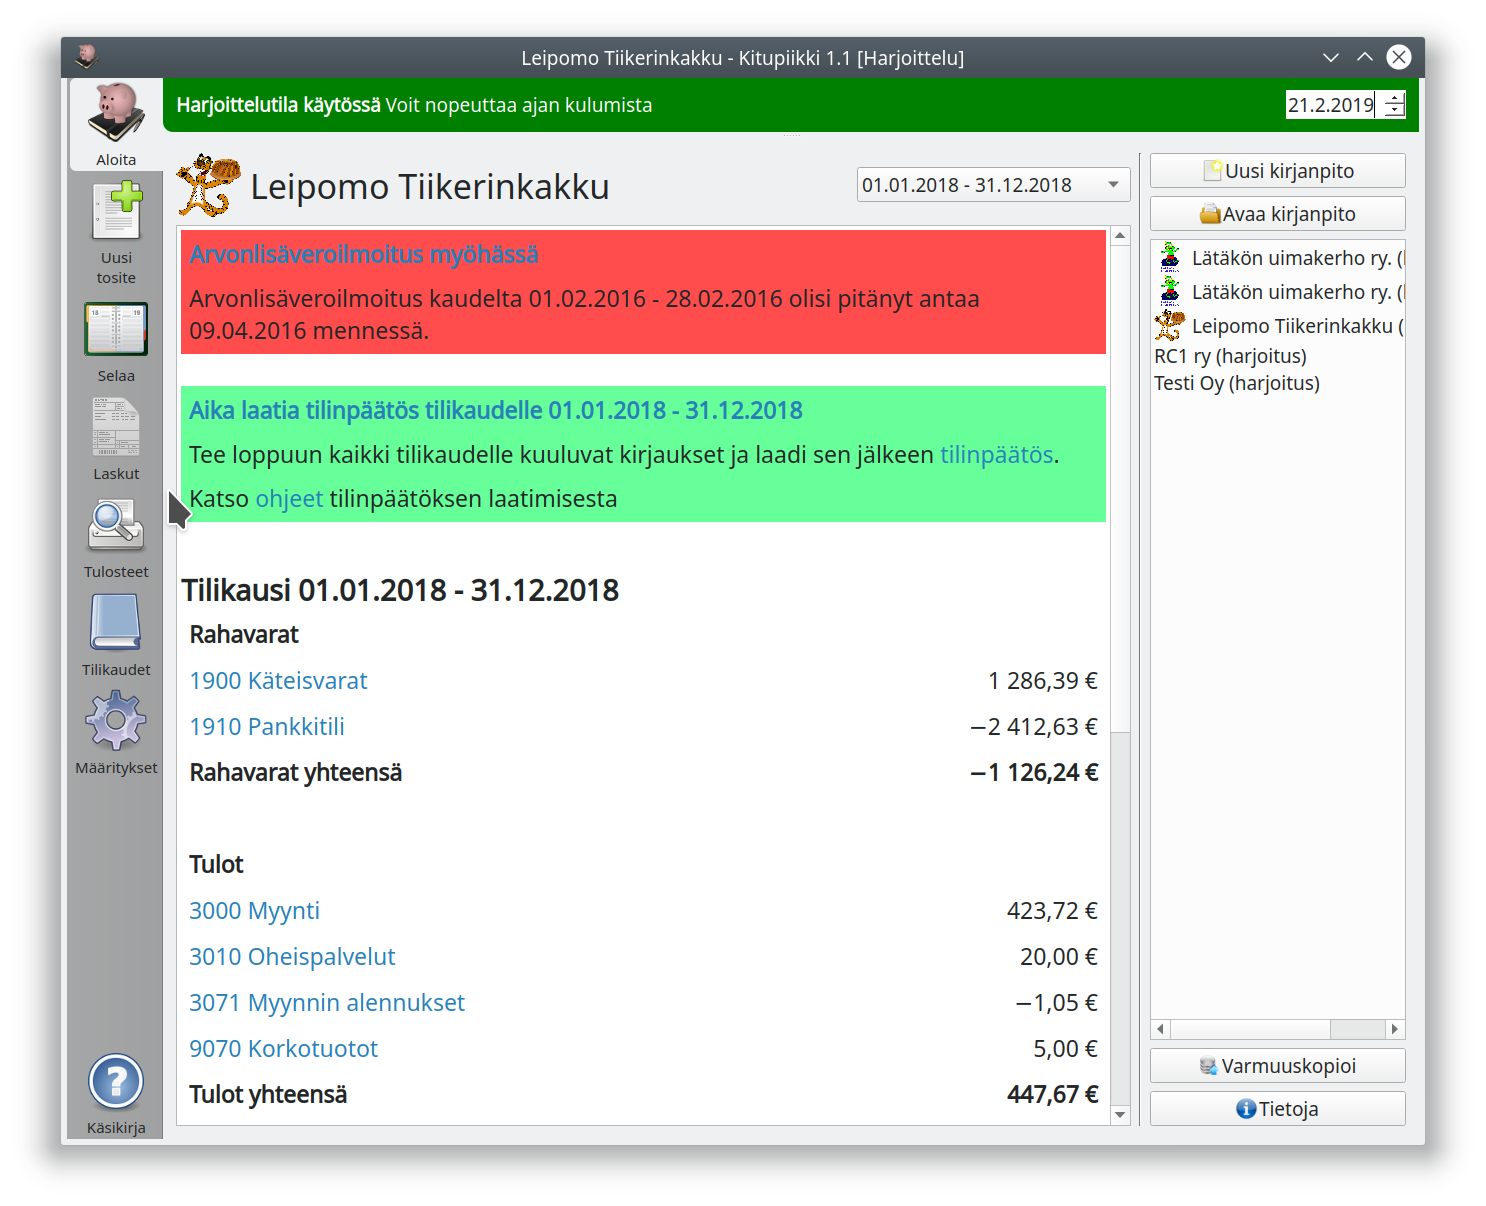
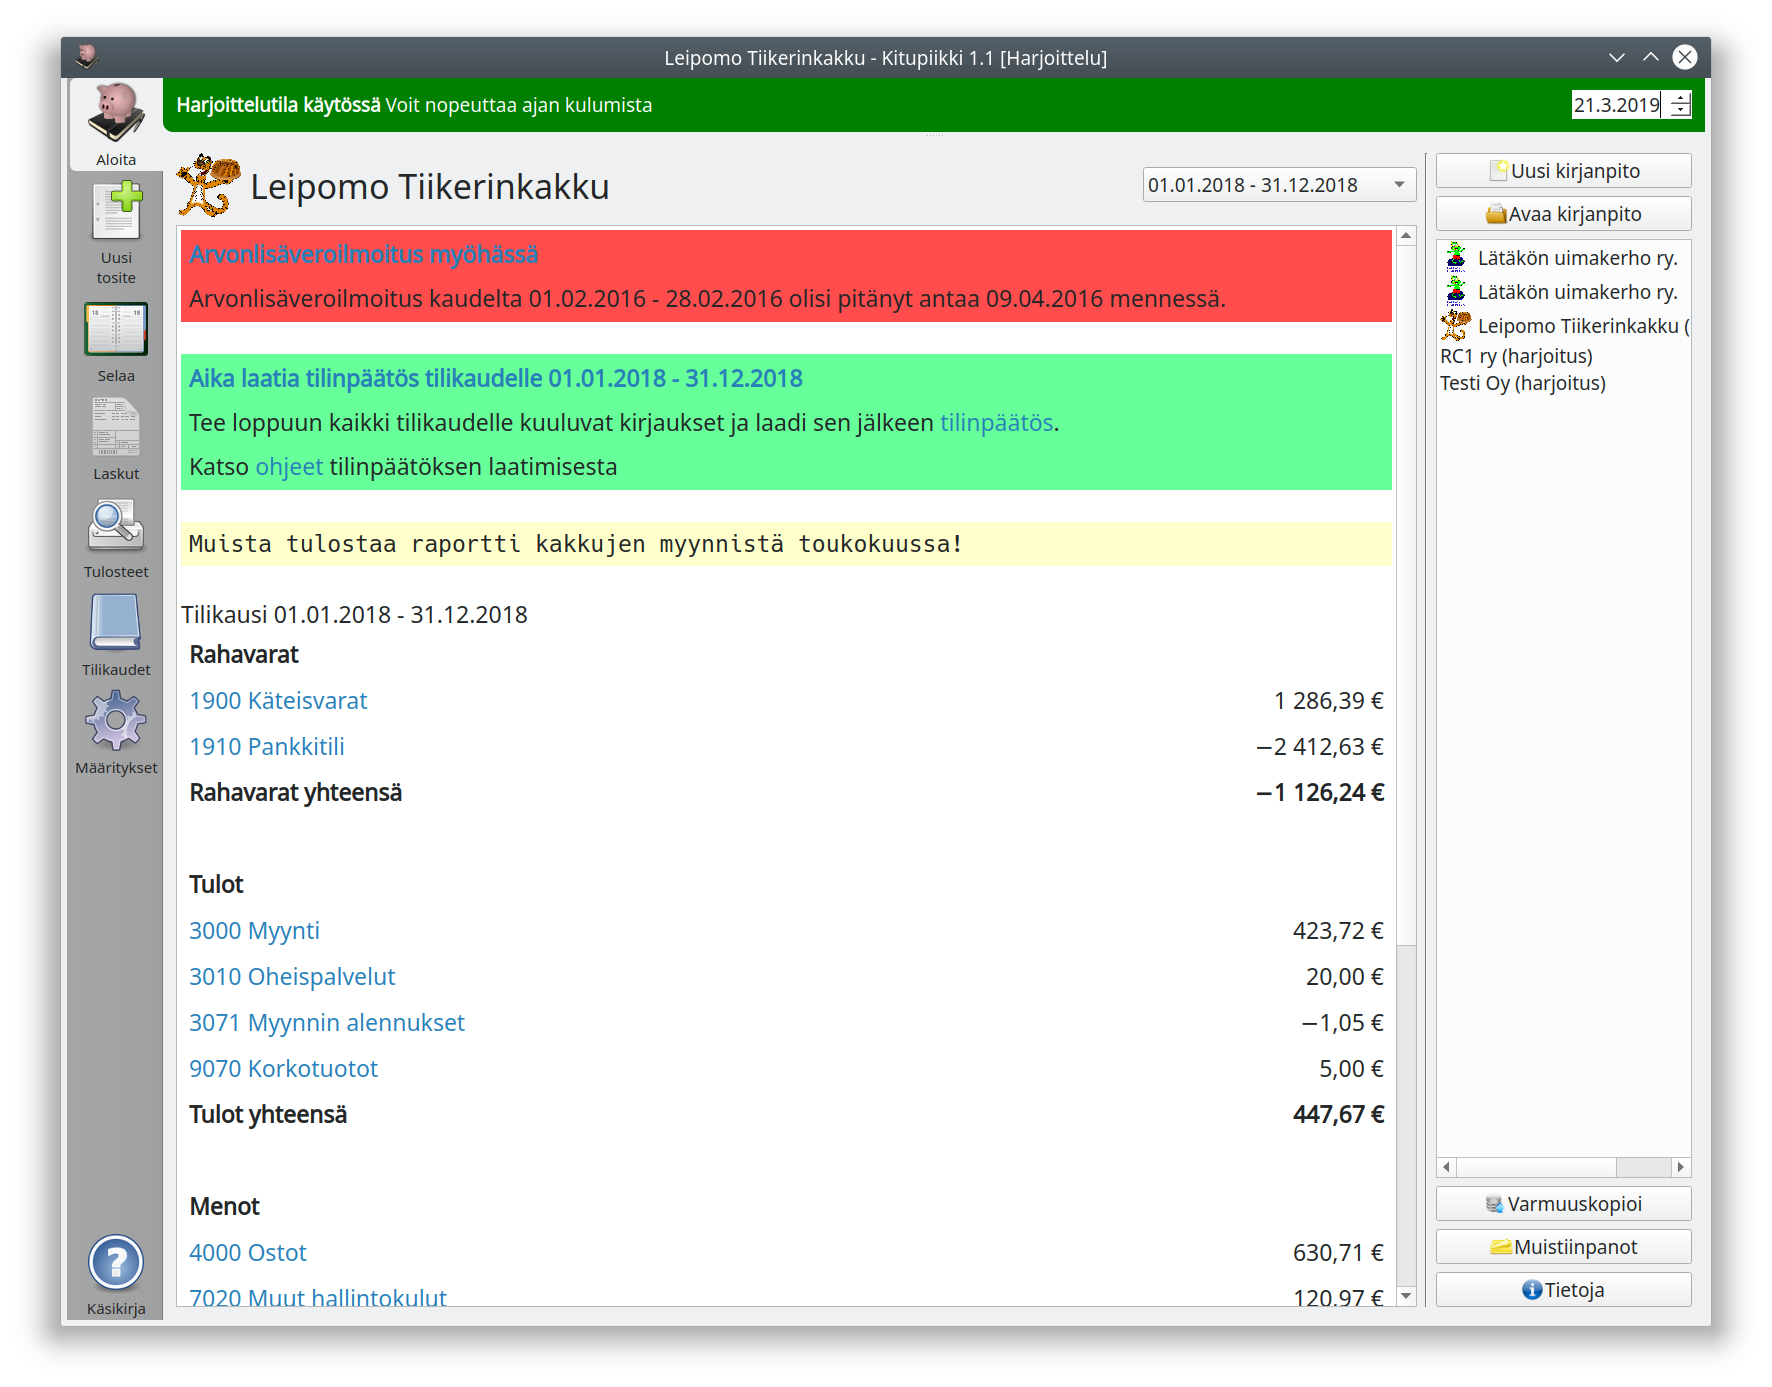
Documentaatio päivitetty

Changed region(s): [[0.031, 0.0, 0.9906, 0.9818]]

diff --git a/kitupiikki/aloitussivu/aloitussivu.cpp b/kitupiikki/aloitussivu/aloitussivu.cpp
@@ -435,11 +435,9 @@ QString AloitusSivu::vinkit()
     // Viimeisenä muistiinpanot
     if( kp()->asetukset()->onko("Muistiinpanot") )
     {
-        vinkki.append(" <table class=memo width=100%><tr><td>");
-        QString muistiinpano = kp()->asetukset()->asetus("Muistiinpanot");
-        muistiinpano.replace("\n","<br>");
-        vinkki.append(muistiinpano);
-        vinkki.append("</td></tr></table");
+        vinkki.append(" <table class=memo width=100%><tr><td><pre>");
+        vinkki.append( kp()->asetukset()->asetus("Muistiinpanot"));
+        vinkki.append("</pre></td></tr></table");
     }
 
     return vinkki;

diff --git a/kitupiikki/laskutus/laskudialogi.cpp b/kitupiikki/laskutus/laskudialogi.cpp
@@ -707,7 +707,6 @@ void LaskuDialogi::poistaValitutAsiakkaat()
 
 void LaskuDialogi::verkkolaskuKayttoon()
 {
-    ui->verkkolaskuNappi->setVisible( !ui->verkkoOsoiteEdit->text().isEmpty() && !ui->verkkoValittajaEdit->text().isEmpty() );
     ui->verkkolaskuNappi->setEnabled( !ui->verkkoOsoiteEdit->text().isEmpty() && !ui->verkkoValittajaEdit->text().isEmpty() );
 }
 

diff --git a/kitupiikki/versio.h b/kitupiikki/versio.h
@@ -24,7 +24,7 @@
   Kitupiikin versio määritellään tässä tiedostossa. Tiedosto voidaan myös generoida käännösaikaisesti.
 */
 
-#define KITUPIIKKI_VERSIO "1.1"
+#define KITUPIIKKI_VERSIO "1.1-beta.3"
 #define KITUPIIKKI_BUILD ""
 
 #endif // VERSIO_H

diff --git a/docs/laskutus/ryhma/index.md b/docs/laskutus/ryhma/index.md
@@ -1,1 +1,33 @@
 #Ryhmälasku  <span class=ver>1.1<span class=selite>Kitupiikin versiosta 1.1 lähtien</span></span>
+
+![](ryhma.png)
+
+Ryhmälasku-toiminnolla voit lähettää saman sisältöisen laskulle kerralla useammalle asiakkaalle.
+
+Täytä **Rivit**-välilehdelle laskutettavien tuotteiden tiedot ja **Lisätiedot**-välilehdelle laskulle tulostuvat lisätiedot.
+
+Valitse laskun saajat **Laskutettavat**-välilehdeltä. Voit lisätä yksittäisiä laskutettavia **Lisää**-napista, jo asiakasrekisterissä olevia vasemmasta olevassa asiakasluettelossa nimeä napsauttamalla tai tuoda csv-tiedostosta kerralla useamman asiakkaan **Tuo luettelo**-painikkeesta.
+
+Lähettääksesi tai tulostaaksesi laskun, **valitse** ensin laskun saajat ja paina sitten **Tulosta**, **Näytä**, **Sähköposti** tai **Verkkolasku** -painiketta.
+
+![](lahetetyt.png)
+
+Nimen vasemmalla puolella oleva *e*-kuvake tarkoittaa, että lasku voidaan lähettää verkkolaskuna; kuvake muuttuu vihreäksi väkäseksi kun verkkolasku on muodostettu. Vastaavasti vihreä väkänen sähköpostiosoitteen vasemmalla puolella tarkoittaa, että lasku on lähetetty sähköpostilla.
+
+## Luettelon tuominen
+
+![](luettelo.png)
+
+**Tuo luettelo**-painikkeellä pääset tuomaan vastaanottajien luettelon csv-tiedostosta. Valittuasi tiedoston valitse käytettävät sarakkeet: valitse taulukossa sarake ja **Sarakkeen sisältö**-valinnalla, mitä sarake sisältää.
+
+Taulukkolaskentaohjelmat, kuten Excel tai LibreOffice Calc, voivat tallentaa tietoa csv-muotoon; samoin monet tietokantoja käsittelevät ohjelmat. Näin yhdistys voi esimerkiksi lähettää jäsenlaskut, jos yhdistyksen jäsenrekisteristä jäsenten osoitetiedot saadaan vietyä csv-tiedostoksi.
+
+![](libre.png)
+
+Malliesimerkki osoitteista csv-tiedostossa
+```
+Nimi,Lähiosoite,Postiosoite,Sähköposti
+Olli Orava,Käpykuja 8,00330 Käpylä,testi-olli@kitupiikki.info
+Otso Karhu,Kontiokuja 6,54110 Karhula,testi.otso@kitupiikki.info
+Aapo Apina,Banaanipolku 9,88790 Viidakko,testi.aapo@kitupiikki.info
+```

diff --git a/docs/tilikaudet/arkisto/index.md b/docs/tilikaudet/arkisto/index.md
@@ -29,12 +29,7 @@ Tilikausittaiset arkistot voit viedä *Tilikaudet*-välilehden **Vie arkisto**-p
 
 Tällä toiminnolla voit siirtää yhden vuoden arkiston esim. suoraan USB-muistitikulle.
 
-**Vie tar-tiedostona** muodostaa vuoden arkistosta yhden [tar-tiedoston](https://fi.wikipedia.org/wiki/Tar_(Unix)). Tällainen tiedosto on helppo arkistoida tai lähettää edelleen.
-
-Tar-tiedoston avaamiseen tarvitaan Windowsissa erillinen ohjelma, esimerkiksi [7-zip](http://www.7-zip.org/).
-
-!!! info "Tar-tiedostot"
-    Tar-tiedostomuoto on tehty alunperin nauha-asemalle tallentamista varten: se ei tiivistä eikä salaa tiedostoja.
+**Vie zip-tiedostona** ja **Vie tar-tiedostona** tallentavat koko arkiston yhdeksi pakatuksi tiedostoksi. [ZIP-arkiston](https://fi.wikipedia.org/wiki/ZIP) saa avattua suoraan nykyisillä Windows-, Linux- ja macOS-tietokoneilla, [TAR-arkiston](https://fi.wikipedia.org/wiki/Tar_(Unix)) avaamiseen tarvitaan Windows-koneilla erillinen ohjelma, kuten [7-zip](https://www.7-zip.org).
 
 
 ## Arkiston muuttumattomuuden varmistaminen

diff --git a/docs/ui.md b/docs/ui.md
@@ -3,7 +3,7 @@
 
 Kitupiikin käyttöliittymä muodostuu seitsemästä välilehdestä.
 
-**Aloituksessa** näet vinkkejä ajankohtaisista tehtävistä sekä tilien saldot. Tilien numerot ovat linkkejä, joista pääset suoraan selaamaan kirjauksia. Välilehdeltä pääset myös avaamaan toisen kirjanpidon tai aloittamaan uuden. **Varmuuskopioi**-napilla saat tallennettua varmuuskopion nykyisestä kirjanpidostasi.
+**Aloituksessa** näet vinkkejä ajankohtaisista tehtävistä sekä tilien saldot. Tilien numerot ovat linkkejä, joista pääset suoraan selaamaan kirjauksia. Välilehdeltä pääset myös avaamaan toisen kirjanpidon tai aloittamaan uuden. **Varmuuskopioi**-napilla saat tallennettua varmuuskopion nykyisestä kirjanpidostasi. **Muistiinpanot**-napilla voit muokata aloitussivulla näkyviä omia muistiinpanoja.
 
 **Uusi tosite**-välilehdellä kirjataan tositteita.
 
